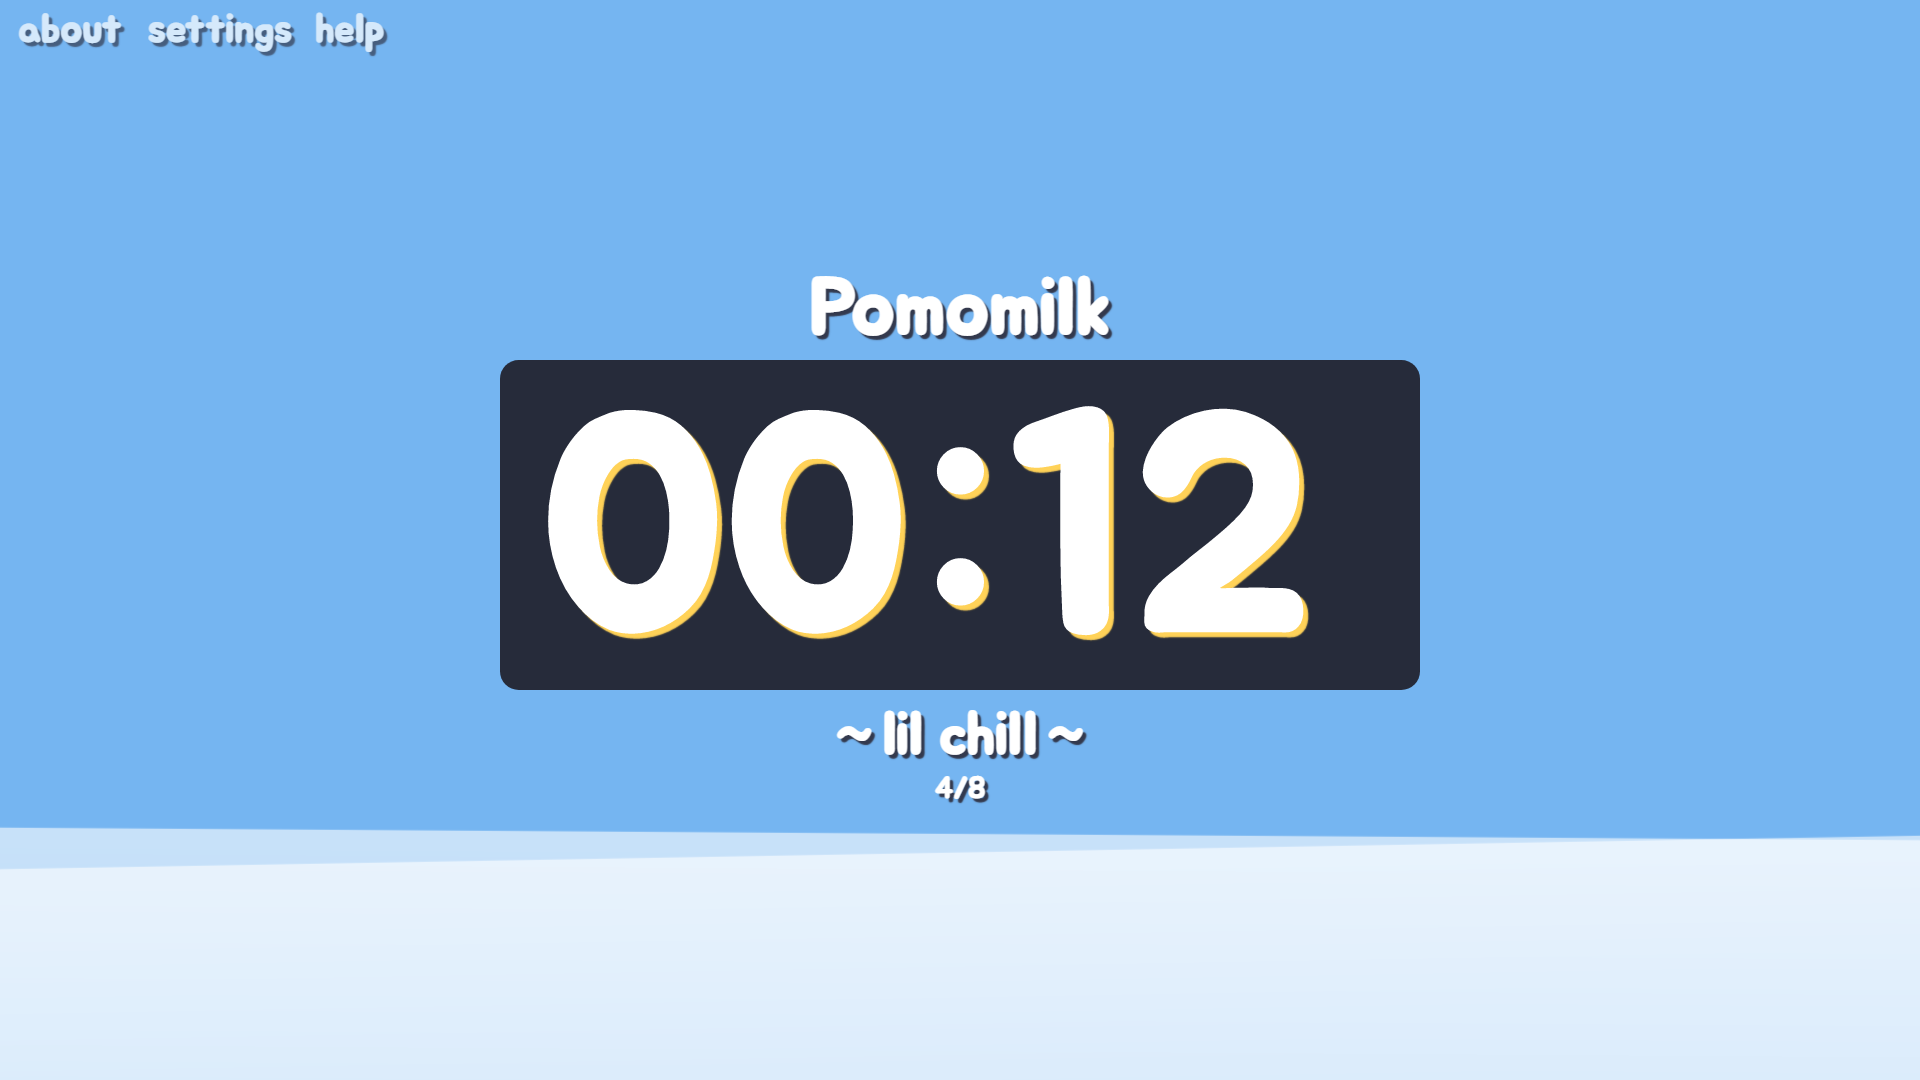
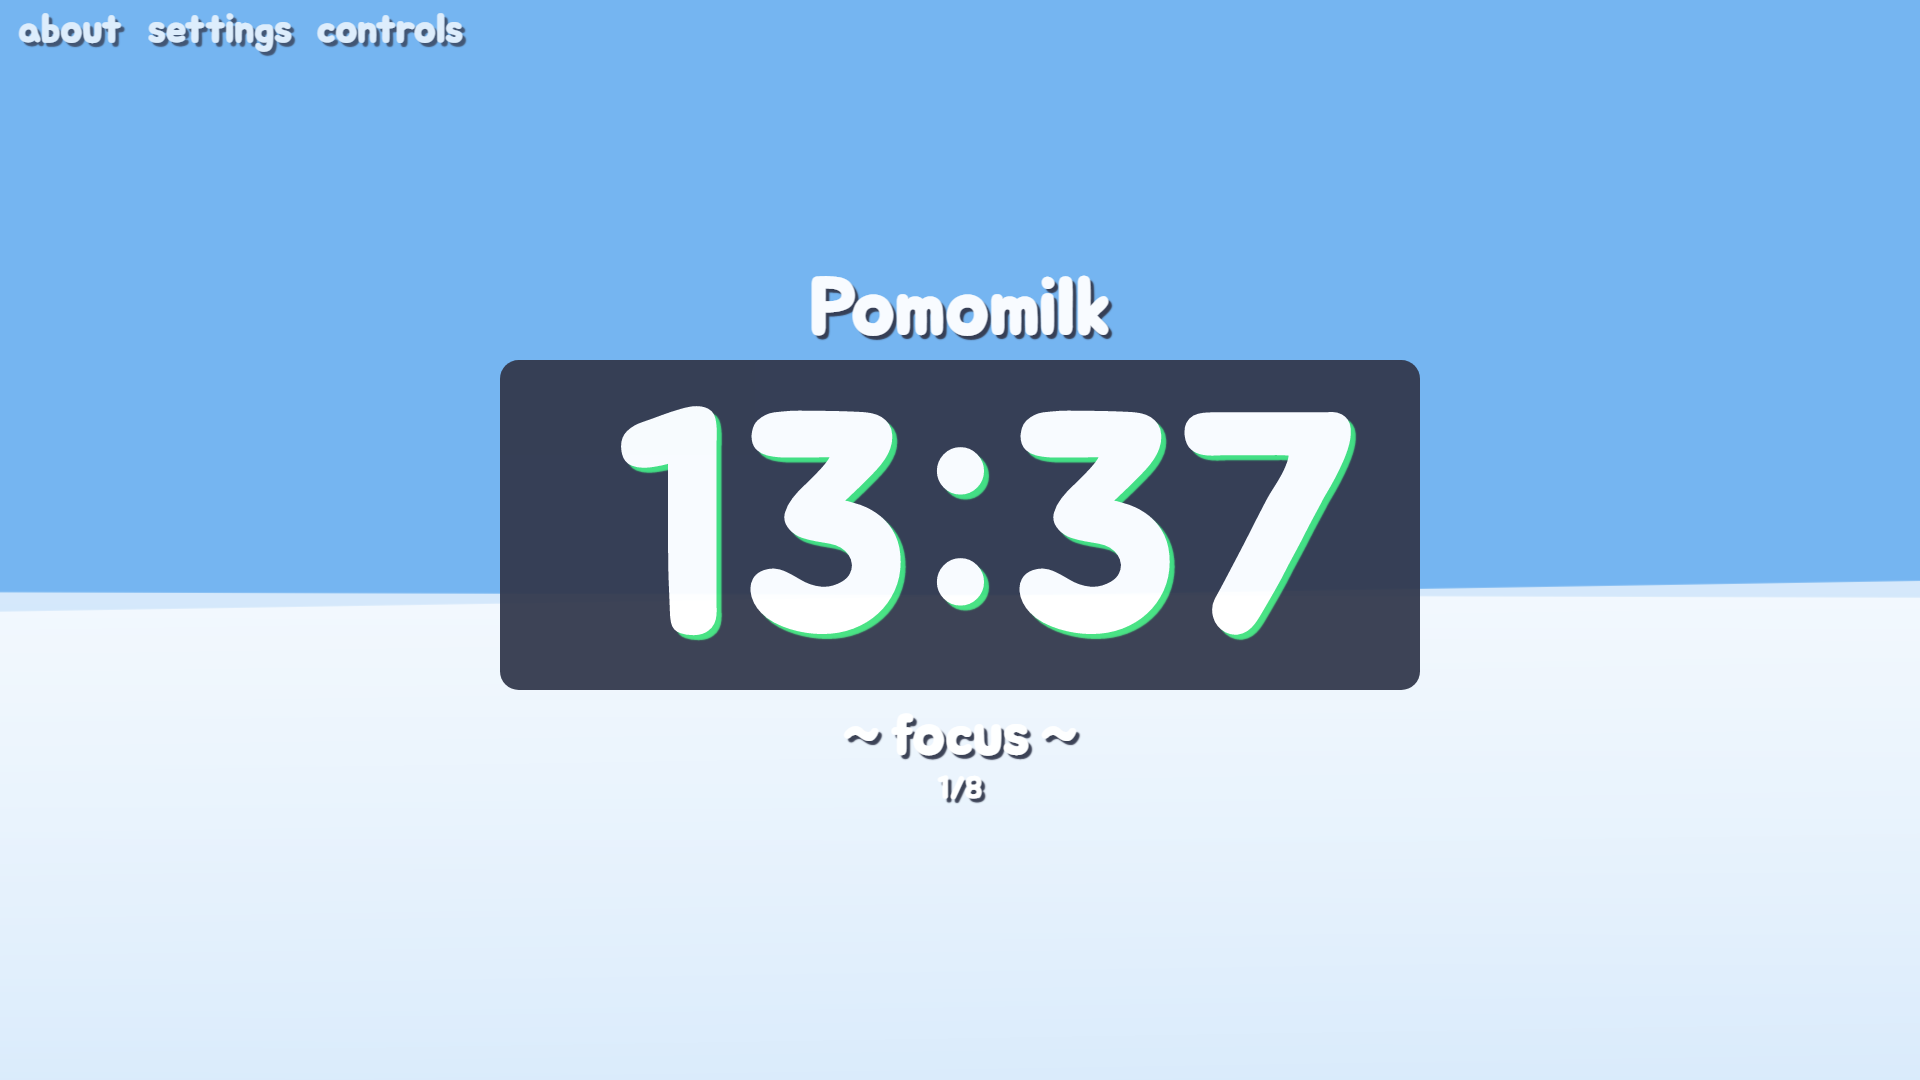
Update controls, Help menu

diff --git a/src/components/Help.js b/src/components/Help.js
@@ -8,14 +8,102 @@ const Help = (props) => {
 
   return (
     <div className="Help">
-      <h2>Help</h2>
-      <h4>Press <span className="key">SPACEBAR</span> or the timer to start/stop</h4>
-      <h4>Press <span className="key">&nbsp;A&nbsp;</span> to <span className="font-green">add 30 sec to the current step</span></h4>
-      <h4>Press <span className="key">&nbsp;S&nbsp;</span> to <span className="font-yellow">skip the current step</span></h4>
-      <h4>Press <span className="key">&nbsp;R&nbsp;</span> to <span className="font-red">reset the current step</span></h4>
-      <h4>Press <span className="key">&nbsp;T&nbsp;</span> + <span className="key">&nbsp;Y&nbsp;</span> to change bg + milk color</h4>
-      <h4>Press <span className="key">&nbsp;1&nbsp;</span> <span className="key">&nbsp;2&nbsp;</span> <span className="key">&nbsp;3&nbsp;</span> to navigate menus</h4>
-      <h4>Intervals may be configured via the settings</h4>
+      <h2>Quick Controls</h2>
+      <div className="controls">
+        <h4>
+          <span className="option">
+            <span className="key">SPACEBAR</span>
+          </span>
+          <span className="value">
+            start/stop timer
+          </span>
+        </h4>
+        <h4>
+          <span className="option">
+            <span className="key">W</span>
+            <span className="key">A</span>
+            <span className="key">S</span>
+            <span className="key">D</span>
+          </span>
+          <span className="value">
+            adjust the current timer
+          </span>
+        </h4>
+        <h4>
+          <span className="option">
+            <span className="key">R</span>
+          </span>
+          <span className="value">
+            reset the current timer
+          </span>
+        </h4>
+        <h4>
+          <span className="option">
+            <span className="key">Shift</span>+
+            <span className="key">W</span>
+            <span className="key">S</span>
+          </span>
+          <span className="value">
+            adjust the mode interval
+          </span>
+        </h4>
+        <h4>
+          <span className="option">
+            <span className="key">Shift</span>+
+            <span className="key">A</span>
+            <span className="key">D</span>
+          </span>
+          <span className="value">
+            go to the prev/next step
+          </span>
+        </h4>
+        <h4>
+          <span className="option">
+            <span className="key">Shift</span>+
+            <span className="key">R</span>
+          </span>
+          <span className="value">
+            reset the mode interval
+          </span>
+        </h4>
+        <h4>
+          <span className="option">
+            <span className="key">Q</span>
+          </span>
+          <span className="value">
+            toggle autostart
+          </span>
+        </h4>
+        <h4>
+          <span className="option">
+            <span className="key">Z</span>
+            <span className="key">X</span>
+          </span>
+          <span className="value">
+            cycle bg/milk color
+          </span>
+        </h4>
+        <h4>
+          <span className="option">
+            <span className="key">SHIFT</span>+
+            <span className="key">C</span>
+          </span>
+          <span className="value">
+            reset bg/milk color to default
+          </span>
+        </h4>
+        <h4>
+          <span className="option">
+            <span className="key">1</span>
+            <span className="key">2</span>
+            <span className="key">3</span>
+          </span>
+          <span className="value">
+            navigate menus
+          </span>
+        </h4>
+      </div>
+      <h4>These may also be configured via the settings</h4>
       <h3 className="settings-toggle close" onClick={() => props.onClose(false)}>close</h3>
     </div>
   );

diff --git a/src/App.scss b/src/App.scss
@@ -29,15 +29,17 @@
     span.key {
       border: 2px solid $white;
       border-radius: 10px;
-      font-size: 1.2rem;
+      font-size: 0.9rem;
       font-weight: 500;
       min-width: 1.5rem;
-      display: inline-block;
-      padding: 0.1rem 0.5rem 0rem 0.5rem;
-      line-height: 2rem;
+      display: flex;
+      @include flex-center;
+      padding: 0.1rem 0.2rem 0 0.2rem;
+      height: 1.5rem;
       background-color: rgba(255, 255, 255, 0.25);
       text-shadow: 1px 1px 1px $dark;
       box-shadow: 3px 3px 1px $dark;
+      margin: 0 0.25rem;
     }
     p {
       padding: 1rem;
@@ -57,8 +59,21 @@
     h4 {
       margin-top: 0.5rem;
     }
+    p {
+      display: block;
+      height: initial;
+      width: initial;
+      font-size: 1.3rem;
+      margin: 1rem;
+    }
   }
   .Help {
+    .controls {
+      border: 1px solid white;
+      max-height: 70vh;
+      padding: 0.5rem;
+      @include custom-scrollbar;
+    }
     h2 {
       margin-bottom: 1.5rem;
     }
@@ -66,8 +81,26 @@
       margin: 1rem 0 2rem 0;
     }
     h4 {
-      margin: 0.75rem 0;
+      font-size: 1.2rem;
       line-height: 2.5rem;
+      @include flex-center;
+      flex-wrap: nowrap;
+    }
+    span.option,
+    span.value {
+      min-width: 16rem;
+      display: inline-flex;
+      flex-wrap: nowrap;
+      // border: 1px solid yellow;
+    }
+    span.option {
+      justify-content: flex-end;
+      align-items: center;
+      margin-right: 1rem;
+      min-width: 11rem;
+    }
+    span.value {
+      justify-content: flex-start;
     }
   }
   header.nav {
@@ -76,6 +109,7 @@
     left: 0.5rem;
     @include flex-center;
     h3 {
+      // border: 1px solid red;
       margin-right: 1.5rem;
       width: 6rem;
       opacity: 0.8;
@@ -84,6 +118,7 @@
       }
       &:last-child {
         width: 4rem;
+        margin-left: 2rem;
         margin-right: 0;
       }
     }

diff --git a/src/App.js b/src/App.js
@@ -115,7 +115,7 @@ const App = () => {
     case "Digit1":
       setShowAbout(true);
       break;
-    case "Digit2":
+    case "Digit2": case "Tab":
       dispatch(toggleSettings());
       break;
     case "Digit3":
@@ -127,6 +127,9 @@ const App = () => {
   };
 
   const escHandler = (event) => {
+    if (event.code === "Tab") {
+      event.preventDefault();
+    }
     switch (event.code) {
     case "Escape":
       setShowAbout(false);
@@ -155,7 +158,6 @@ const App = () => {
       setShowHelp(!showHelp);
       break;
     }
-
   };
 
   useEffect(() => {
@@ -178,7 +180,7 @@ const App = () => {
       <header className="nav">
         <h3 className="settings-toggle" onClick={() => setShowAbout(true)}>about</h3>
         <h3 className="settings-toggle" onClick={() => onToggleSettings()}>settings</h3>
-        <h3 className="settings-toggle" onClick={() => setShowHelp(true)}>help</h3>
+        <h3 className="settings-toggle" onClick={() => setShowHelp(true)}>controls</h3>
       </header>
       <section className="display">
         <h2 className="settings-toggle" onClick={() => setShowAbout(true)}>Pomomilk</h2>

diff --git a/src/components/Settings.js b/src/components/Settings.js
@@ -28,16 +28,10 @@ const Settings = () => {
     }
   };
 
-
   // Stop and reset timer when the mode changes
   useEffect(() => {
     dispatch(resetTimer());
   }, [settings.mode]);
-
-  // // Always show page 1 first when the Settings menu is toggled
-  // useEffect(() => {
-  //   setPage(1);
-  // }, [settings.visible]);
 
   const formatTime = (time) => {
     return `${time / 60} min`;

diff --git a/src/reducers/settings.js b/src/reducers/settings.js
@@ -9,7 +9,8 @@ const defaultSettings = {
   interval: 4,
   step: 1,
   autoStart: true,
-  page: 1
+  page: 1,
+  selection: null
 };
 
 const options = {

diff --git a/README.md b/README.md
@@ -33,6 +33,7 @@
 - Time progression is visualized by milk that dynamically fills up the screen.
 - Users can customize the background and milk colors.
 - Setting milk color to "auto" automatically matches it to the current mode.
+- Users can toggle interval autostart.
 
 <!-- INSTALLATION -->
 
@@ -58,5 +59,5 @@ The project is live
 
 ## 📷 Screenshots
 <img src="./public/screenshots/chill.png">
-<img src="./public/screenshots/settings2.png">
-<img src="./public/screenshots/help.png">
+<img src="./public/screenshots/settings.png">
+<img src="./public/screenshots/controls.png">
